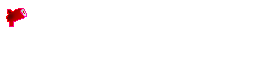
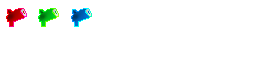
colourful guns

Changed region(s): [[0.125, 0.125, 0.375, 0.4375]]

diff --git a/scripts/entities/Player.js b/scripts/entities/Player.js
@@ -115,6 +115,7 @@
 
 			if (Ω.input.pressed("fire")) {
 				if (this.weapon) {
+					// TODO: move particles to weapon. add a bunch more!
 					this.particle.play(this.x + (this.w / 2), this.y + 10, this.angle);
 					this.weapon.fire(this.angle);
 				} else {
@@ -296,7 +297,9 @@
 			this.anims.render(gfx, this.x + 1, this.y + 17);
 
 			// Arms
-			this.sheet.render(gfx, this.headAt + (this.weapon ? 8 : 0), 1, this.x + 2, this.y + (this.headAt > 0 && this.headAt < 4 ? -5 : 5));
+			var armsX = this.weapon ? 8 : 0,
+				armsY = this.weapon && this.weaponIdx === 0 ? 4 : 1;
+			this.sheet.render(gfx, this.headAt + armsX, armsY, this.x + 2, this.y + (this.headAt > 0 && this.headAt < 4 ? -5 : 5));
 
 			this.weapon && this.weapon.render(gfx);
 

diff --git a/scripts/screens/LevelScreen.js b/scripts/screens/LevelScreen.js
@@ -217,7 +217,10 @@
 			c.fillStyle = "hsl(120, 3%, 0%)";
 			c.fillRect(0, 0, gfx.w, gfx.h);
 
-			this.camera.render(gfx, [this.map, this.door, this.painted, this.player, this.bullets, this.pickups, this.spawner, this.baddie_spawner]);
+			this.camera.render(gfx, [
+				this.map, this.door, this.painted, this.player, this.bullets,
+				this.pickups, this.spawner, this.baddie_spawner
+			]);
 
 		}
 

diff --git a/scripts/weapons/KillRay.js b/scripts/weapons/KillRay.js
@@ -58,6 +58,8 @@
 
 						if (distToEntity < distToWall) {
 							walltest = "ENTIY!";
+							self.hit.x = p.x;
+							self.hit.y = p.y;
 							p.remove();
 						} else {
 							walltest = "WALLL";

diff --git a/scripts/pickups/GunPickup.js b/scripts/pickups/GunPickup.js
@@ -16,7 +16,7 @@
 
 		render: function (gfx) {
 
-			this.sheet.render(gfx, 0, 0, this.x, this.y);
+			this.sheet.render(gfx, 1, 0, this.x, this.y);
 
 		}
 
